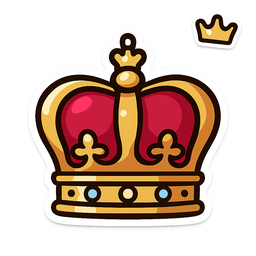
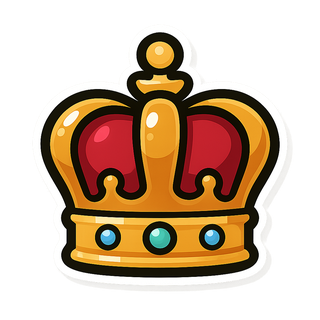
Round 16: treasure-chest reposition, hero photo focus, new clean crown
USER FEEDBACK

1. Support the cause — treasure-chest desktop position weird
   Was: lg:top-1/2 lg:-translate-y-1/2 (vertically centered to the whole
   tall donate section — floated awkwardly between heading and tier-cards)
   Now: lg:top-10 lg:right-[5%] w-48 (anchored top-right next to the
   "Support the cause" heading, where it acts as a hero illustration
   for the section opener)

2. Hero profile photo focus point — head was getting cropped at top
   Source images are 2:3 portrait, displayed at 1:1 square. Default
   object-cover centers vertically, cutting off both top and bottom equally.
   Added style="object-position: center 18%;" — raises the focus toward
   the top of the image so the head/face stays fully visible while the
   bottom (shoulders/torso) gets the crop instead.
   Applied to: 3 hero photo cycle images + Alex tab profile photo

3. Crown PNG — regenerated cleaner version
   Old crown.png had a tiny secondary gold crown decoration on top corner
   (from when it was generated as part of the chibi UI icon batch — that
   batch added the small crown emblem to every icon for brand consistency).
   The new crown.png is a SINGLE clean chibi crown, no secondary
   decoration, same sticker treatment as the social icons.
   File replaced in place — all usages (Meet the Prince corner deco +
   "What the prince does" service tile background) get the cleaner version.

Changed region(s): [[0.125, 0.0938, 0.875, 0.9062], [0.75, 0.0312, 0.9375, 0.2188]]

diff --git a/index.html b/index.html
@@ -1220,9 +1220,9 @@
           <!-- Photo frame (Variation B style: ink border + offset shadow + 現在 overlay) -->
           <div class="relative aspect-square rounded-3xl overflow-hidden bg-cream border-[2.5px] border-ink shadow-[8px_8px_0_var(--color-ink)]">
             <div class="profile-photo-cycle absolute inset-0">
-              <img src="/images/profile/alex-mc.jpg"     alt="アレックス・デレチ — MC"     class="absolute inset-0 w-full h-full object-cover" loading="eager"/>
-              <img src="/images/profile/alex-talent.jpg" alt="アレックス・デレチ — タレント" class="absolute inset-0 w-full h-full object-cover" loading="eager"/>
-              <img src="/images/profile/alex-model.jpg"  alt="アレックス・デレチ — モデル"  class="absolute inset-0 w-full h-full object-cover" loading="eager"/>
+              <img src="/images/profile/alex-mc.jpg"     alt="アレックス・デレチ — MC"     class="absolute inset-0 w-full h-full object-cover" style="object-position: center 18%;" loading="eager"/>
+              <img src="/images/profile/alex-talent.jpg" alt="アレックス・デレチ — タレント" class="absolute inset-0 w-full h-full object-cover" style="object-position: center 18%;" loading="eager"/>
+              <img src="/images/profile/alex-model.jpg"  alt="アレックス・デレチ — モデル"  class="absolute inset-0 w-full h-full object-cover" style="object-position: center 18%;" loading="eager"/>
             </div>
             <!-- 現在 — animated lang-stack overlay (replaces name) -->
             <div class="absolute bottom-0 left-0 right-0 px-5 py-4 sm:px-6 sm:py-5 pointer-events-none"
@@ -1761,7 +1761,7 @@
           <div class="lg:col-span-5 relative">
             <!-- Photo with name overlay on bottom (gradient bar) -->
             <div class="relative w-full max-w-[360px] mx-auto bg-paper border border-line rounded-2xl overflow-hidden shadow-sm">
-              <img src="/images/profile/alex-talent.jpg" alt="アレックス・デレチ モデル写真" class="w-full block aspect-[4/5] object-cover" loading="lazy"/>
+              <img src="/images/profile/alex-talent.jpg" alt="アレックス・デレチ モデル写真" class="w-full block aspect-[4/5] object-cover" style="object-position: center 18%;" loading="lazy"/>
               <div class="absolute bottom-0 left-0 right-0 px-5 py-4 sm:px-6 sm:py-5" style="background:linear-gradient(to top, rgba(31,24,18,0.88) 0%, rgba(31,24,18,0.55) 60%, transparent 100%);">
                 <div class="font-jp-display text-paper leading-none" style="font-weight:900; font-size:clamp(22px, 4.5vw, 30px);">Alex Derycz</div>
                 <div class="font-jp text-paper/85 mt-1" style="font-size:14px;">アレックス・デレチ</div>
@@ -1831,7 +1831,7 @@
   <!-- ─────────────  DONATE  ───────────── -->
   <section id="donate" class="bg-royal section-pinstripe text-paper py-12 sm:py-16 lg:py-24 relative overflow-hidden">
 
-    <div class="absolute hidden sm:block sm:bottom-8 sm:right-6 lg:top-1/2 lg:-translate-y-1/2 lg:right-[4%] w-32 sm:w-44 lg:w-52 anim-bobble pointer-events-none z-10">
+    <div class="absolute hidden sm:block sm:top-8 sm:right-6 lg:top-10 lg:right-[5%] w-32 sm:w-40 lg:w-48 anim-bobble pointer-events-none z-10">
       <img src="/images/mascot/treasure-chest.png" alt="ビーガン王子 - サポーター" class="w-full h-auto drop-shadow-2xl" loading="lazy"/>
     </div>
 